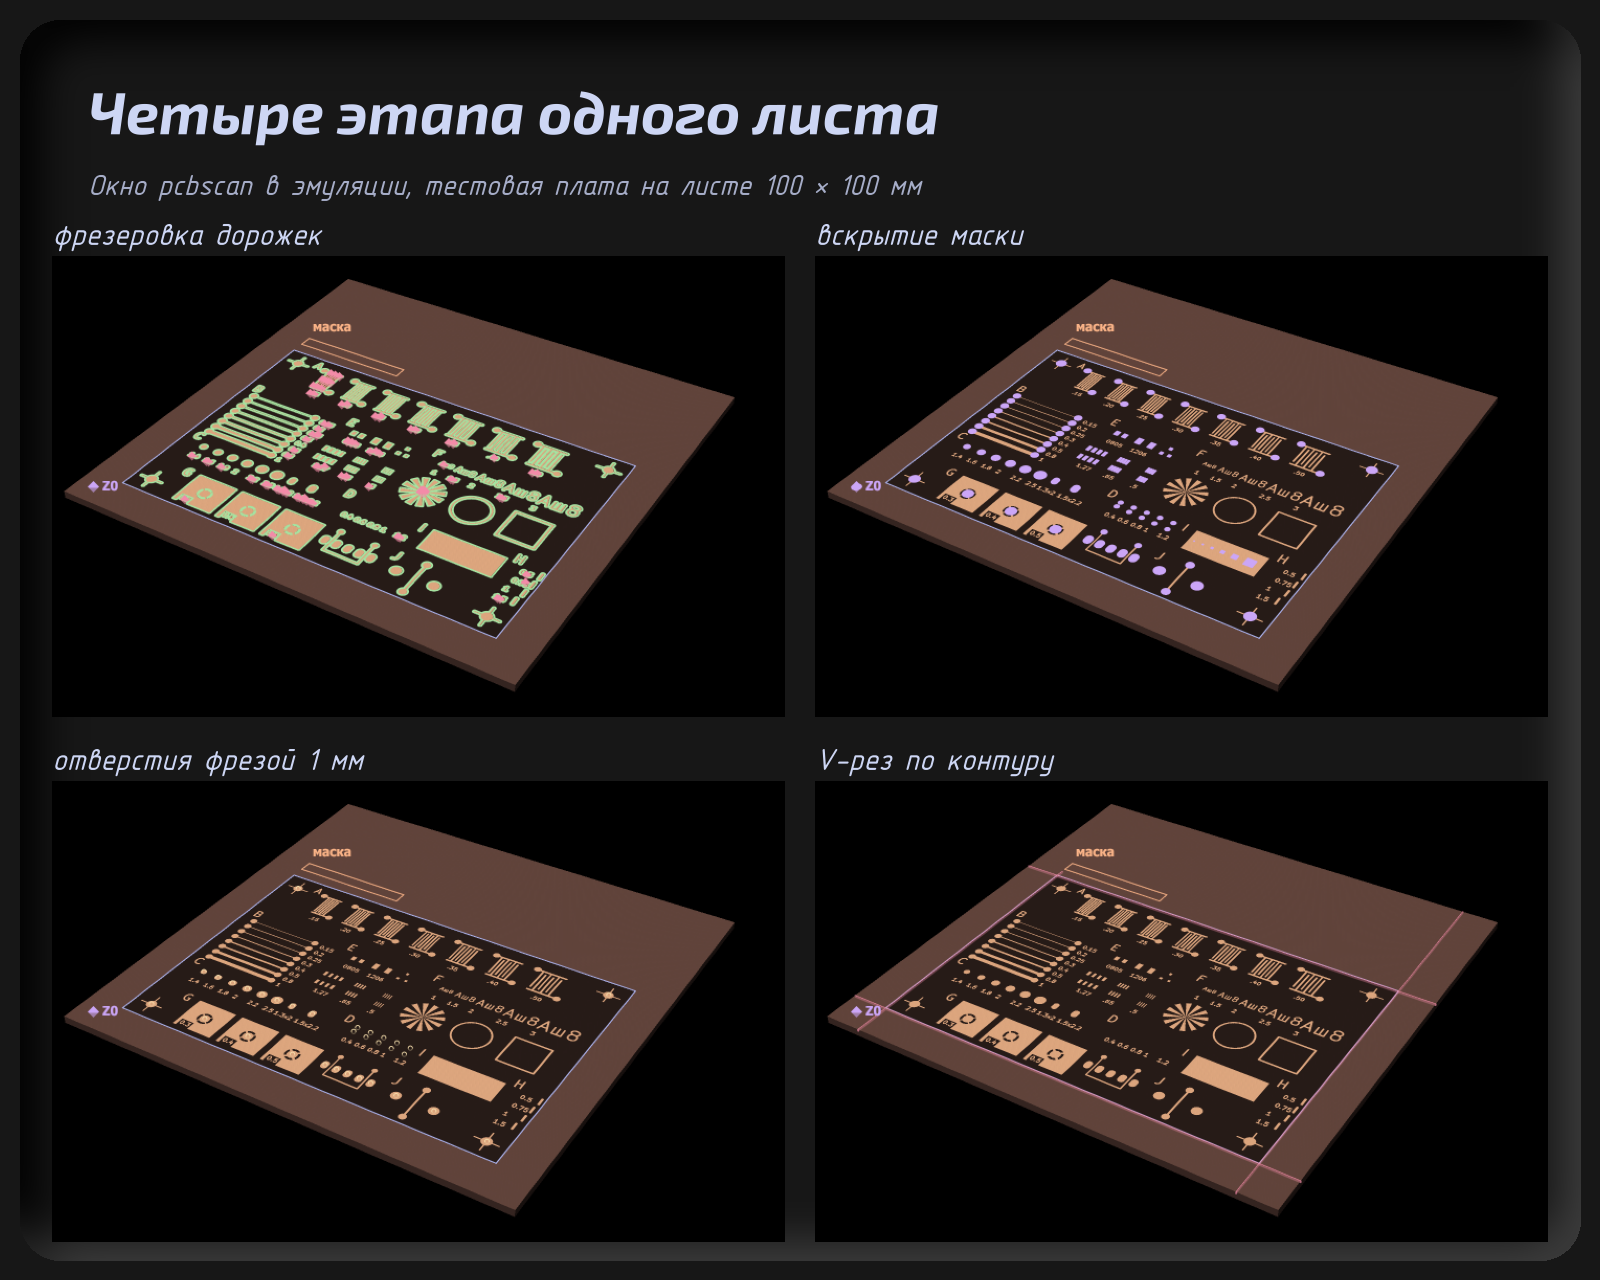
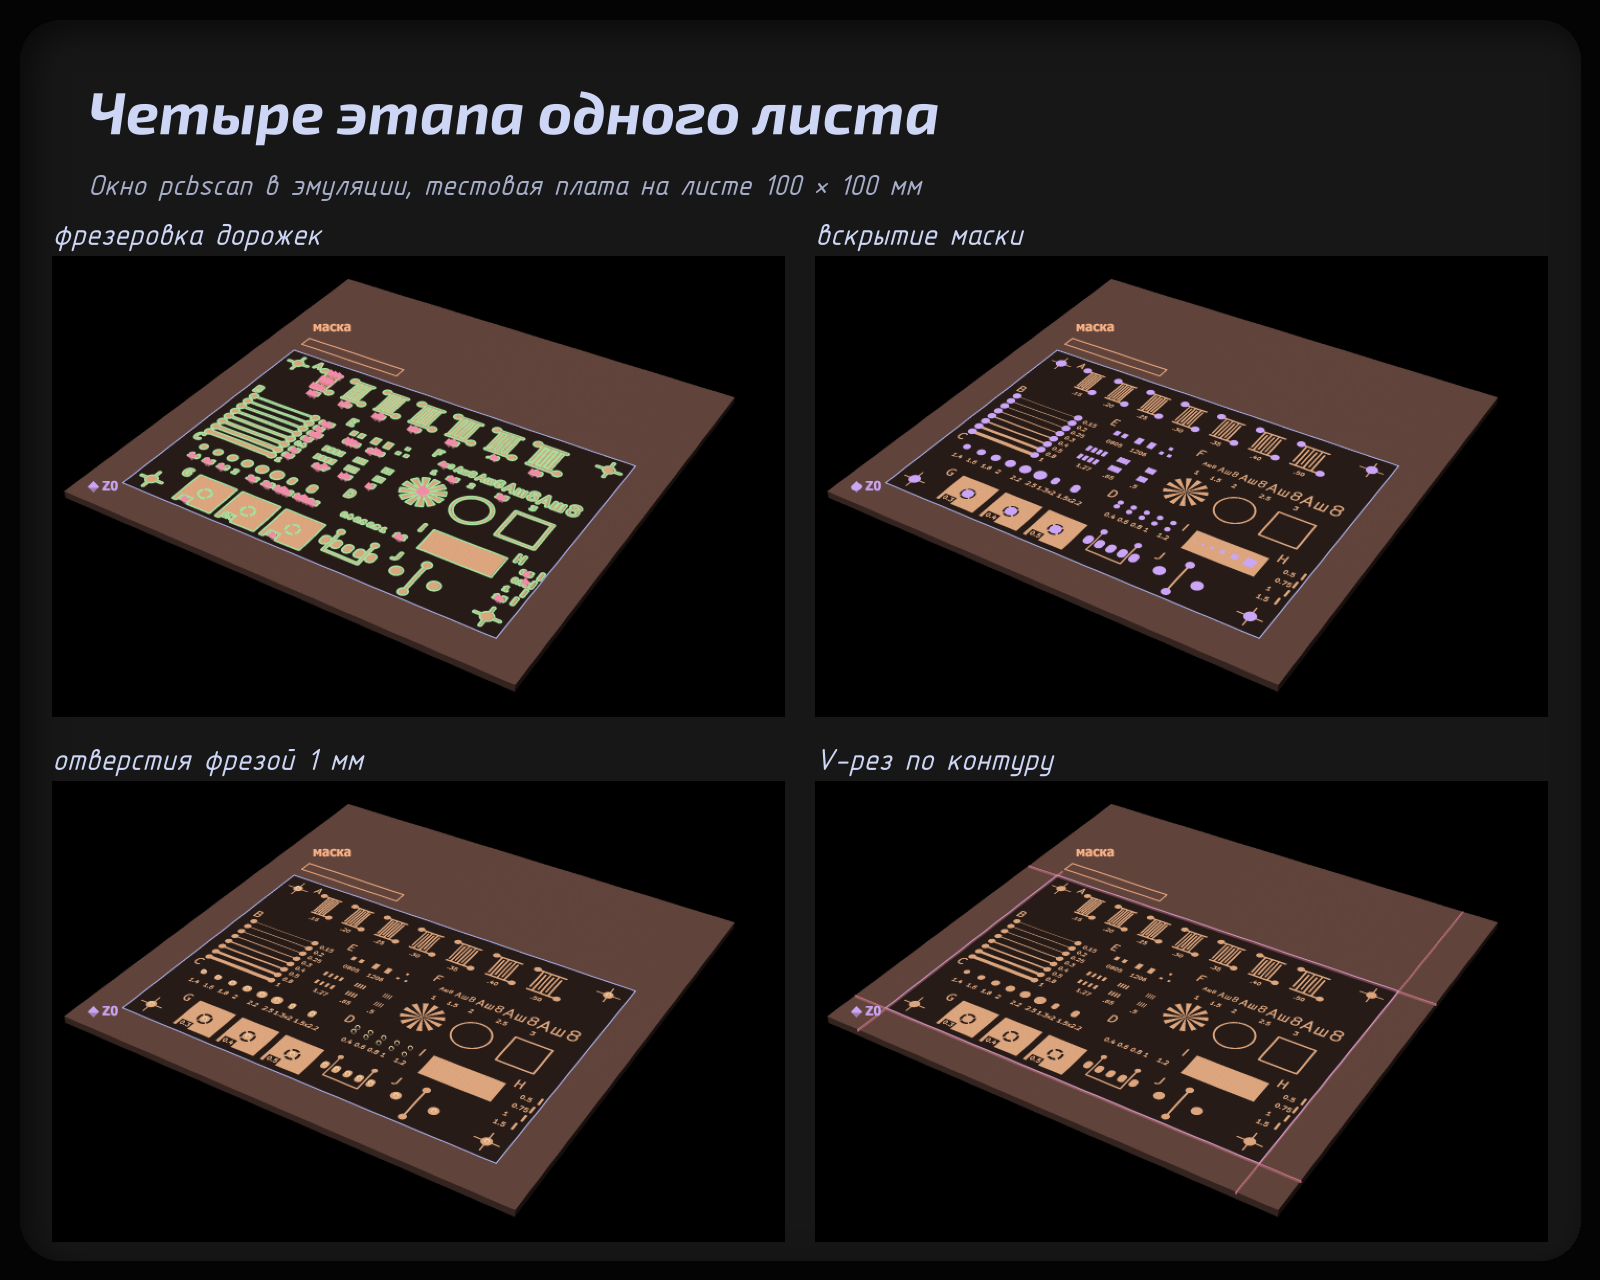
Статья: поле #040404, мягкая внутренняя тень без блика

Changed region(s): [[0.0312, 0.0312, 1.0, 1.0]]

diff --git a/docs/article/figures.py b/docs/article/figures.py
@@ -66,7 +66,7 @@ AGAINST_PY = ((1291, 1293), (564, 563), (3329, 3328), (5813, 5813))
 # ==============================
 
 C = {
-    "card": "#171717",     # Habr dark --background-primary, hsl(0, 0%, 9%)
+    "card": "#040404",     # the ground round the card
     "ink": "#cdd6f4",      # Catppuccin Mocha: Text
     "muted": "#a6adc8",    # Subtext 0
     "track": "#262626",
@@ -131,10 +131,9 @@ def slant(fig):
         t.set_path_effects([Slanted(e, SLANT) for e in effects])
 
 
-# The card sits pressed into the grey: a dark inner shadow from the top left,
-# a faint light one from the bottom right.
-INSET = {"margin": 0.1, "radius": 0.2, "shift": 0.1, "blur": 0.1,
-         "dark": 0.95, "light": 0.16, "panel": C["card"]}
+# The card sits pressed into the dark ground: a soft inner shadow from the top left.
+INSET = {"margin": 0.1, "radius": 0.2, "shift": 0.05, "blur": 0.08,
+         "dark": 0.55, "light": 0.0, "panel": "#171717"}  # panel: Habr dark --background-primary
 
 
 def inset(fig, dpi: int = DPI):
